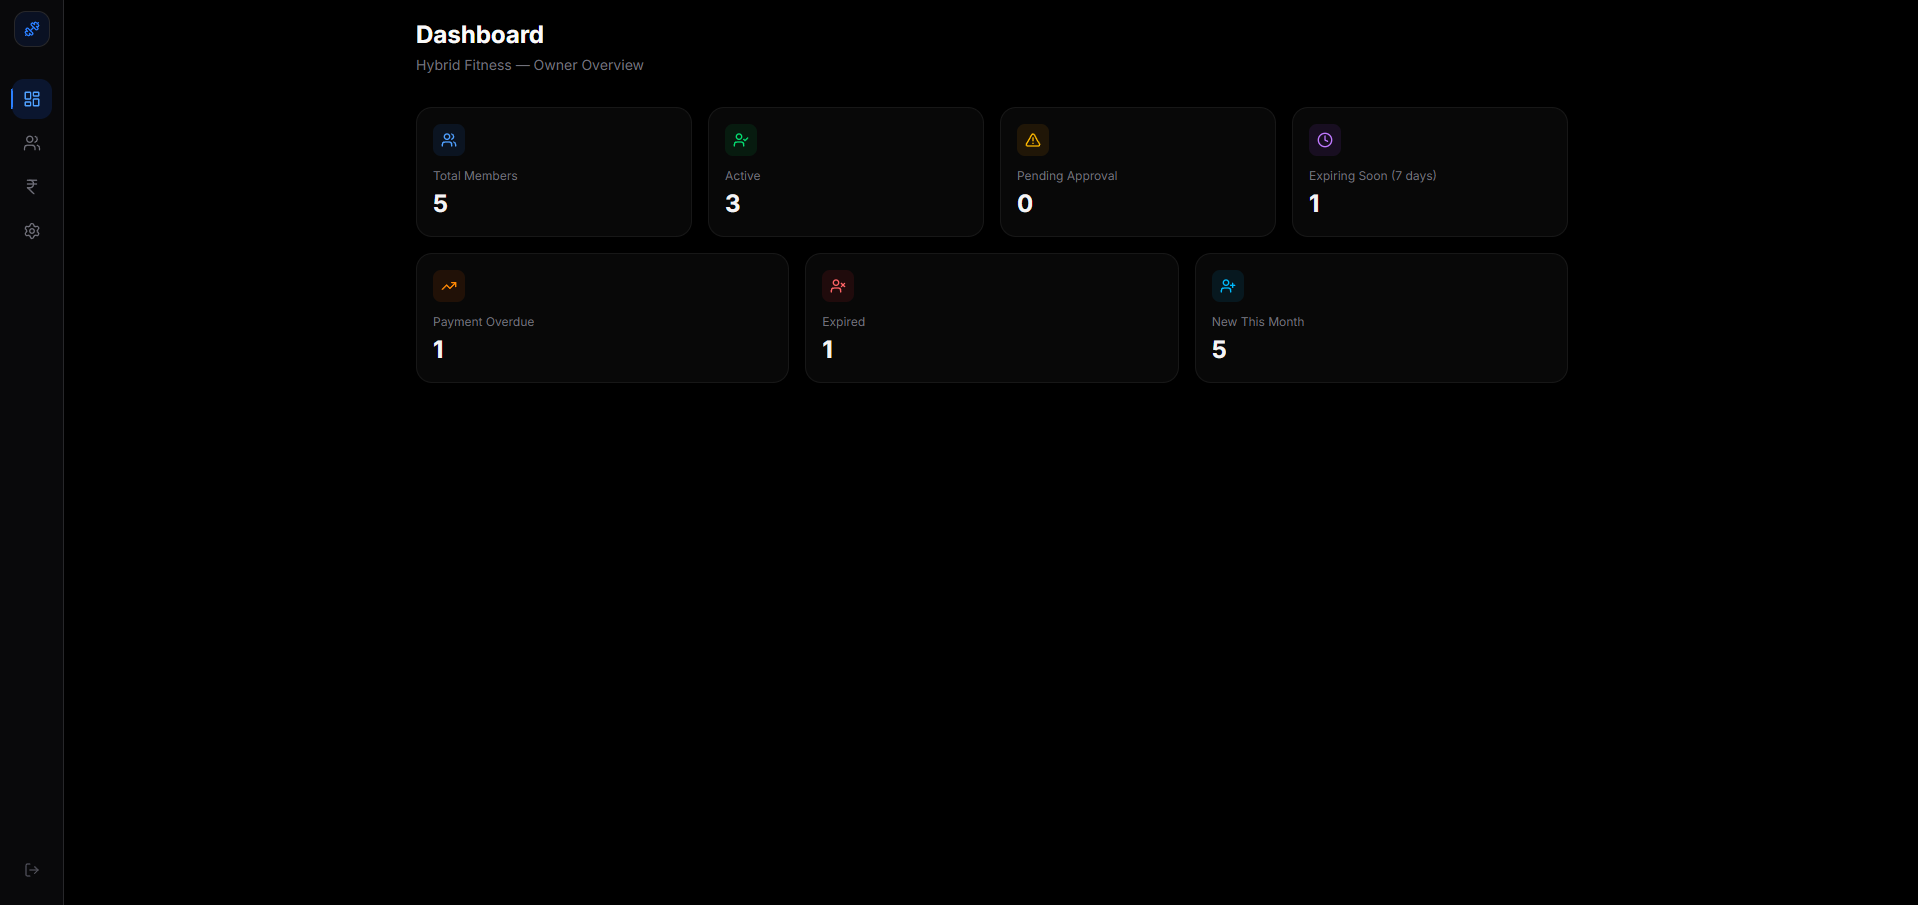
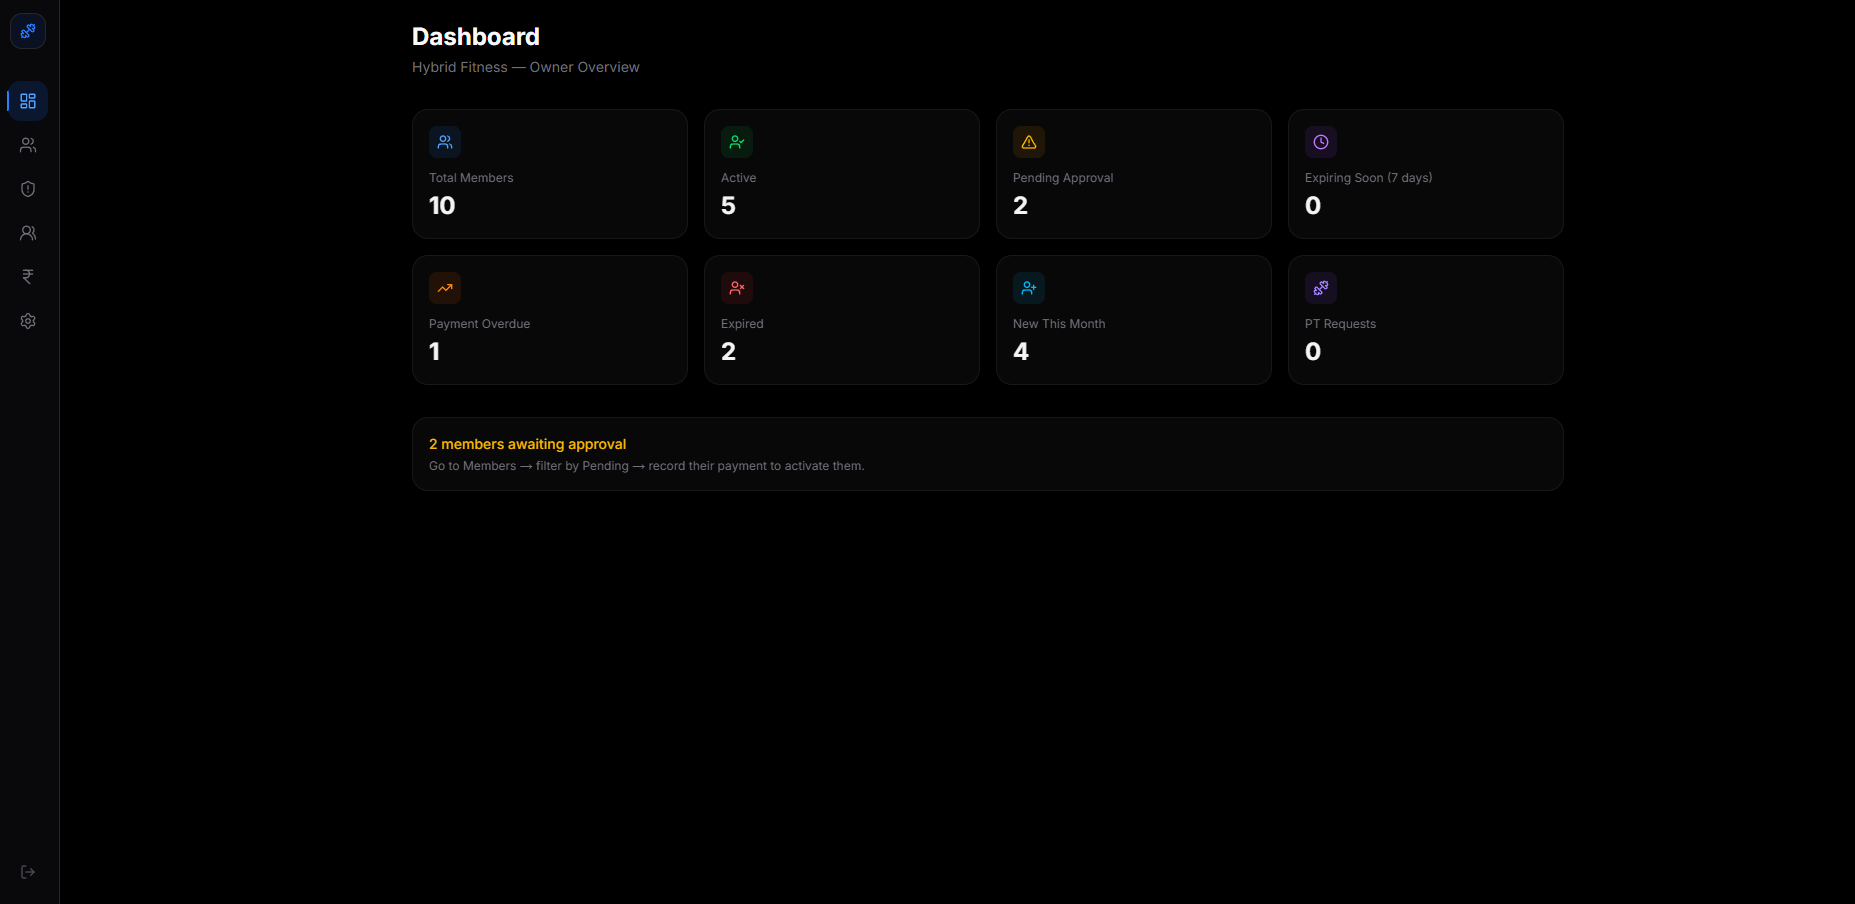
docs: update README with comprehensive feature documentation and new screenshots

diff --git a/README.md b/README.md
@@ -1,212 +1,276 @@
 # GymTrack — Hybrid Fitness Management System
 
-A full-stack gym management web app built for **Hybrid Fitness**, designed to give the gym owner a complete operational dashboard — member management, trainer assignments, financial tracking, and automated SMS notifications — all in one place.
+A full-stack gym management web app built for **Hybrid Fitness**. Gives the gym owner a complete operational dashboard — member management, trainer assignments, financial tracking, minor member compliance, and automated SMS notifications — all from one place.
 
-Built with **Next.js**, **Firebase Firestore**, **Firebase Cloud Functions**, and **Tailwind CSS**.
+**Stack:** Next.js · Firebase Firestore · Firebase Cloud Functions · Tailwind CSS · TypeScript · Vercel
 
 ---
 
-## Screenshots
+## Table of Contents
 
-### Dashboard
+1. [Dashboard](#1-dashboard)
+2. [Member Management](#2-member-management)
+3. [QR Code Self-Registration](#3-qr-code-self-registration)
+4. [Minor Members & Parental Consent](#4-minor-members--parental-consent)
+5. [Trainers & Personal Training](#5-trainers--personal-training)
+6. [Finances](#6-finances)
+7. [Automated SMS Notifications](#7-automated-sms-notifications)
+8. [Settings](#8-settings)
+9. [Tech Stack](#9-tech-stack)
+10. [Project Structure](#10-project-structure)
+
+---
+
+## 1. Dashboard
+
 ![Dashboard](screenshots/dashboard.png)
 
-### Members
-![Members](screenshots/members-tab.png)
+The owner's home screen gives a real-time snapshot of the entire gym at a glance. Eight stat cards update live from Firestore:
 
-### Finances
-![Gym Finances](screenshots/gym-finance-page.png)
+| Card | Description |
+|---|---|
+| **Total Members** | All registered members across every status |
+| **Active** | Members with a live, unexpired membership |
+| **Pending Approval** | Members who registered via QR and await activation |
+| **Expiring Soon** | Members whose membership expires within 7 days |
+| **Payment Overdue** | Members inside the 5-day grace period after expiry |
+| **Expired** | Fully lapsed memberships |
+| **New This Month** | Registrations in the current calendar month |
+| **PT Requests** | Pending personal trainer assignment requests |
 
----
-
-## Features
-
-### Owner Dashboard
-
-A real-time overview of the gym's current state at a glance.
-
-- **Total Members** — cumulative count of all registered members
-- **Active** — members with a live, unexpired membership
-- **Pending Approval** — members who registered via QR code and are awaiting activation
-- **Expiring Soon** — members whose membership expires within 7 days
-- **Payment Overdue** — members in the 5-day grace period after expiry
-- **Expired** — fully lapsed memberships
-- **New This Month** — registrations in the current calendar month
-- **PT Requests** — pending personal trainer assignment requests
-
-An alert banner appears when members are awaiting approval, with a direct instruction on how to activate them.
+An amber alert banner appears at the bottom whenever members are awaiting approval, with a direct instruction to navigate to Members → filter Pending → record their payment to activate them.
 
 ---
 
-### Member Management
+## 2. Member Management
 
 ![Members Tab](screenshots/members-tab.png)
 
-A full roster of every member with live status badges and quick actions.
+A full roster of every member with live status badges and per-row quick actions.
 
-- Search members by name, phone, or email
-- Filter by status: **All / Active / Pending / Overdue / Expired**
-- Each row shows name, contact, membership plan, status badge, expiry date, and action buttons
-- **Add Member** — owner can manually register a member via a modal (name, email, phone, gender, plan, start date)
-- **Record Payment** — renew a member's subscription; calculates the new expiry date automatically based on plan
-- **Edit Member** — update any member details
-- **Delete Member** — remove a member from the system
+**Search & Filter**
+- Search across name, phone, and email simultaneously
+- Filter by status: **All · Active · Pending · Overdue · Expired**
+
+**Per-row actions**
+- **Record Payment** — renews the membership and recalculates the expiry date automatically based on the selected plan and start date
+- **Edit** — update any member detail
+- **Delete** — permanently remove the member record
+
+**Adding members manually**
 
 ![Add Member](screenshots/add-member-screen.png)
 
-**Membership plans:** Monthly, Quarterly, Half-Yearly, Yearly, and Custom (arbitrary number of days)
+The owner can manually add a member via a slide-up modal — full name, email, phone, gender, membership plan, and preferred start date.
 
-**Status lifecycle:** Pending → Active → Overdue (5-day grace) → Expired
+**Membership plans**
+
+| Plan | Duration |
+|---|---|
+| Monthly | 30 days |
+| Quarterly | 90 days |
+| Half-Yearly | 180 days |
+| Yearly | 365 days |
+| Custom | Any number of days — price confirmed by the owner |
+
+**Membership status lifecycle**
+
+```
+Pending  →  Active  →  Overdue (5-day grace)  →  Expired
+```
+
+> Overdue members retain access during the 5-day grace window. Status updates automatically every day via the Cloud Function.
 
 ---
 
-### QR Code Self-Registration
-
-Members can register themselves by scanning a QR code — no owner involvement needed at sign-up time.
+## 3. QR Code Self-Registration
 
 ![Registration Form](screenshots/membership-registration-form.png)
 
-The public `/register` page provides:
+The public `/register` page lets new members sign up themselves by scanning a QR code — no owner involvement needed at sign-up time. The page has two tabs.
 
-- **Two tabs** — Member Registration and PT Registration
-- **Member Registration tab**
-  - Full Name, Email, Phone Number, Age, Gender, Membership Plan, Preferred Start Date
-  - **Duplicate check** — blocks registration if the phone or email already exists in the system, with a prompt to switch to the PT tab instead
-  - **Gym rules acknowledgement** — PDF download button at the top; checkbox confirms the member has read and agreed to the rules before submitting
-  - **PT opt-in checkbox** — if checked, automatically switches to the PT Registration tab after a successful member submission
-  - On success: a scrollable card with all official gym rules is shown, along with a PDF download button
-- **PT Registration tab**
-  - Name, phone, and trainer selection
-  - **Duplicate check** — blocks re-registration with the same trainer if an active or pending PT period already exists
-  - Registering with a different trainer is freely allowed
+### Member Registration tab
 
-All submissions land in Firestore as `pending` — the owner reviews and activates them from the Members tab.
+Fields collected: Full Name · Email · Phone Number · Age · Gender · Membership Plan · Preferred Start Date
+
+- **Duplicate check** — if the phone number or email already exists in the system, the form is blocked with a message directing the person to use the PT tab instead
+- **Gym rules** — a PDF download button sits at the top; a mandatory checkbox requires the member to confirm they have read and agreed to the official gym rules before the form can be submitted
+- **PT opt-in** — a checkbox at the bottom lets the member indicate they also want a personal trainer; ticking it automatically switches to the PT Registration tab after a successful submission
+- **Success screen** — displays a confirmation message, a PDF download button, and a full scrollable copy of the official gym policies
+
+### PT Registration tab
+
+Fields: Name · Phone Number · Trainer selection
+
+- **Duplicate check** — if a pending or active PT request already exists with the selected trainer, the submission is blocked; registering with a different trainer is allowed freely
+- Success screen confirms the request has been received and is under review
+
+All submissions are stored in Firestore as `pending` — the owner reviews and activates them from the Members or Trainers tab.
 
 ---
 
-### Minor Members (Age 15 and Under)
+## 4. Minor Members & Parental Consent
 
 ![Minors Tab](screenshots/minors-tab.png)
 
-A dedicated tab lists all active members aged 15 and under, along with their parental consent details.
+A dedicated **Minors** tab in the sidebar lists all *active* members aged 15 and under, along with their parental consent information on a single screen.
 
-- Displays: Member name, age, parent/guardian name, relationship, parent phone, and date joined
-- **View Consent** button opens a modal with the full formatted **Parental Consent & Liability Waiver**
+Columns: Member name · Age · Parent / Guardian · Relationship · Parent Phone · Date Joined · Consent
+
+Each row has a **View Consent** button that opens the full formatted legal document:
 
 ![Consent Form](screenshots/minors-consent-form.png)
 
-The consent form is collected at registration time. When a member enters an age of 15 or below on the registration form, a scrollable consent section appears containing:
+The **Parental Consent & Liability Waiver** modal shows:
 
-- Full legal text (consent, risk acknowledgment, medical declaration, liability waiver, emergency consent)
-- Fillable fields: parent/guardian name, relationship, primary contact, emergency contact, medical conditions
-- A checkbox that only enables after the parent has scrolled to the bottom of the document
+1. Minor Participant Details
+2. Parent / Guardian Details (name, relationship, primary phone, emergency phone)
+3. Consent declaration
+4. Risk Acknowledgment
+5. Medical Declaration — including any declared conditions or allergies
+6. Liability Waiver
+7. Emergency Medical Consent
+8. Declaration and acknowledgement date
 
-All consent data is stored against the member record in Firestore and viewable from the Minors tab at any time.
+### How consent is collected
+
+When a registering member enters an age of 15 or below, a consent section automatically expands on the registration form. It contains:
+
+- A scrollable card with the complete legal text of the waiver
+- Fillable fields at the bottom of the scroll: parent/guardian full name, relationship, primary contact, emergency contact, and known medical conditions or allergies
+- A consent checkbox that is **disabled until the parent has scrolled to the very bottom** of the document
+
+All consent data is stored in Firestore against the member record and is accessible from the Minors tab at any time.
 
 ---
 
-### Trainers & Personal Training
+## 5. Trainers & Personal Training
 
 ![Trainers Tab](screenshots/trainers-tab.png)
 
-Manage the gym's personal trainer roster and PT client assignments.
+Manage the gym's personal trainer roster and all PT client assignments from a single page.
 
-- **Add Trainer** — name, phone, specialization, monthly rate
-- **Edit / Delete** trainer records
-- Each trainer row shows their active member count, expandable to see individual assigned members
-- **Assign PT** — owner can manually assign a member to a trainer from the dashboard
-- **PT Registration QR** — a separate QR code lets members request a trainer themselves
-- PT requests go through an approval flow: Pending → Active (owner sets the fee) → Unassigned (auto-expires after 30 days)
-- Members with expiring PT assignments are shown with their expiry date
+**Trainer management**
+- Add a trainer — name, phone, specialization, monthly rate
+- Edit or delete any trainer record
+- Each trainer row shows their current active member count, expandable to reveal individual assigned members with expiry dates and a one-click unassign button
+
+**PT assignments**
+- **Assign PT** — the owner can directly assign any existing member to any trainer from the dashboard
+- **PT Registration QR** — a separate QR code leads members to a standalone `/pt-register` page where they can request a trainer themselves
+- **Approve PT request** — pending requests appear in an amber panel at the top of the page; the approve modal pre-fills the fee with the trainer's monthly rate (editable before confirming)
+
+**PT request lifecycle**
+
+```
+Pending  →  Active (owner approves & sets fee)  →  Unassigned (auto-expires after 30 days)
+```
 
 ---
 
-### Finances
+## 6. Finances
+
+### PIN Protection
 
 ![Finance PIN](screenshots/finance-teb-pin-protected.png)
 
-The Finances section is protected by a 4-digit PIN to prevent unauthorised access.
+The entire Finances section sits behind a 4-digit PIN. Financial data remains blurred until the correct PIN is entered. The PIN is set and changed from Settings.
 
-#### Gym Finances Tab
+### Gym Finances tab
 
 ![Gym Finances](screenshots/gym-finance-page.png)
 
-- **Selected Period** card — revenue for the currently filtered date range
-- **Total Revenue** card — all-time cumulative revenue, always unfiltered
-- **Monthly Revenue chart** — visual trend of income over time
-- **Gender filter** — toggle between All / Male / Female to segment revenue and transactions
-- **Date range filter** — From / To date inputs (default: current month) to narrow the transaction view
-- Full transaction history table: member name, plan, date, note, and amount
+![Gym Finances Full View](screenshots/finance-tab.png)
 
-#### Personal Trainers Tab
+- **Selected Period** card — total revenue within the active date range and gender filter
+- **Total Revenue** card — all-time cumulative gym revenue, always unfiltered regardless of filters
+- **Monthly Revenue chart** — visual income trend across months
+- **Gender filter** — All / Male / Female toggle to segment revenue and the transaction table
+- **Date range filter** — From / To date inputs, defaulting to the first and last day of the current month
+- **Transaction history** — member name · plan · date · note · amount
+
+### Personal Trainers tab
 
 ![PT Finances](screenshots/pt-finances-tab.png)
 
 - **PT This Month** and **All Time PT Revenue** summary cards
-- **Revenue by Trainer** breakdown — each trainer's total with individual payment rows
-- Full PT transaction history table
+- **Revenue by Trainer** — each trainer has their own collapsible section showing total earned and a line-by-line member payment breakdown
+- **PT transaction history** — full chronological list of all PT payments across all trainers
 
 ---
 
-### Automated SMS Notifications
+## 7. Automated SMS Notifications
 
-Firebase Cloud Functions run a daily scheduled job that sends SMS alerts via MSG91 to members at key points in their membership lifecycle:
+Firebase Cloud Functions run a **daily scheduled job** that updates membership statuses and sends SMS messages via **MSG91** at three key moments in the membership lifecycle:
 
-| Trigger | Message |
+| Trigger | SMS sent |
 |---|---|
-| 3 days before expiry | Membership expires in 3 days. Please visit us to renew. Please ignore if you have already paid. |
-| Day of expiry | Membership expires today. Please visit us to renew. Please ignore if you have already paid. |
-| 1 day after expiry | Membership expired yesterday. You have a grace period to renew. Please visit us soon. Please ignore if you have already paid. |
+| 3 days before expiry | *"…your membership expires in 3 days. Please visit us to renew. Please ignore if you have already paid."* |
+| Day of expiry | *"…your membership expires today. Please visit us to renew. Please ignore if you have already paid."* |
+| 1 day after expiry | *"…your membership expired yesterday. You have a grace period to renew. Please visit us soon. Please ignore if you have already paid."* |
 
-The same job also automatically unassigns PT relationships whose 30-day period has elapsed.
+The same daily job automatically unassigns any PT relationship whose 30-day active period has elapsed.
 
 ---
 
-### Settings
+## 8. Settings
 
 ![Settings](screenshots/settings-tab.png)
 
-- **Membership Rates** — configure male and female pricing per plan (Monthly, Quarterly, Half-Yearly, Yearly); saved to Firestore and applied at payment recording time
-- **Finance PIN** — set or change the 4-digit PIN that protects the Finances section
-- **Account Credentials** — update the owner's login email or password (requires current password re-authentication)
+**Membership Rates**
+Set male and female pricing independently for each plan — Monthly, Quarterly, Half-Yearly, and Yearly. Rates are saved to Firestore and used as the default amount when the owner records a payment.
+
+**Finance PIN**
+Set or change the 4-digit PIN protecting the Finances section. A PIN change requires entering the current PIN first.
+
+**Account Credentials**
+Update the owner login email or password. Both operations require re-entering the current password for security.
 
 ---
 
-## Tech Stack
+## 9. Tech Stack
 
 | Layer | Technology |
 |---|---|
-| Frontend | Next.js (App Router), Tailwind CSS v4, TypeScript |
-| Backend / DB | Firebase Firestore |
-| Auth | Firebase Authentication |
-| Scheduled Jobs | Firebase Cloud Functions v2 (`onSchedule`) |
-| SMS | MSG91 (India) |
+| Frontend | Next.js 16 (App Router), Tailwind CSS v4, TypeScript |
+| Database | Firebase Firestore |
+| Authentication | Firebase Auth (email/password) |
+| Scheduled jobs | Firebase Cloud Functions v2 (`onSchedule`) |
+| SMS | MSG91 — India transactional SMS |
 | Hosting | Vercel |
 
 ---
 
-## Project Structure
+## 10. Project Structure
 
 ```
 gymtrack/
 ├── app/
 │   ├── dashboard/
-│   │   ├── page.tsx              # Owner dashboard
-│   │   ├── members/page.tsx      # Member roster & management
-│   │   ├── minors/page.tsx       # Minor members & consent viewer
-│   │   ├── trainers/page.tsx     # Trainer & PT management
-│   │   ├── finances/page.tsx     # Revenue & transactions
-│   │   └── settings/page.tsx     # Pricing, PIN, account
-│   ├── register/page.tsx         # Public QR member + PT registration
-│   └── pt-register/page.tsx      # Standalone PT registration QR
+│   │   ├── page.tsx              # Owner dashboard — live stat cards
+│   │   ├── members/page.tsx      # Member roster, search, filters, payments
+│   │   ├── minors/page.tsx       # Minor members & consent document viewer
+│   │   ├── trainers/page.tsx     # Trainer roster & PT request management
+│   │   ├── finances/page.tsx     # Revenue, charts, filters (PIN-protected)
+│   │   └── settings/page.tsx     # Pricing, Finance PIN, account credentials
+│   ├── register/page.tsx         # Public QR — member + PT self-registration
+│   └── pt-register/page.tsx      # Standalone PT registration QR page
 ├── components/
-│   ├── Sidebar.tsx
-│   ├── PinLock.tsx
-│   └── RevenueChart.tsx
+│   ├── Sidebar.tsx               # Navigation sidebar with route highlighting
+│   ├── PinLock.tsx               # 4-digit PIN overlay component
+│   ├── RevenueChart.tsx          # Monthly revenue line chart
+│   ├── AddTrainerModal.tsx       # Add / edit trainer modal
+│   ├── ApprovePTModal.tsx        # Approve PT request with pre-filled fee
+│   ├── AssignPTModal.tsx         # Owner-side manual PT assignment
+│   └── RecordPaymentModal.tsx    # Record member payment / renewal
 ├── lib/
-│   ├── members.ts                # Member & payment Firestore ops
-│   ├── trainers.ts               # Trainer & PT request Firestore ops
-│   ├── types.ts                  # Shared TypeScript interfaces
+│   ├── members.ts                # Member & payment Firestore operations
+│   ├── trainers.ts               # Trainer & PT request Firestore operations
+│   ├── types.ts                  # Shared TypeScript interfaces & constants
+│   ├── settings.ts               # Settings Firestore operations
 │   └── firebase.ts               # Firebase app initialisation
-└── functions/src/index.ts        # Cloud Function — daily SMS scheduler
+├── public/
+│   └── rules.pdf                 # Gym rules PDF — served as static asset
+└── functions/
+    └── src/index.ts              # Cloud Function — daily SMS & status scheduler
 ```
